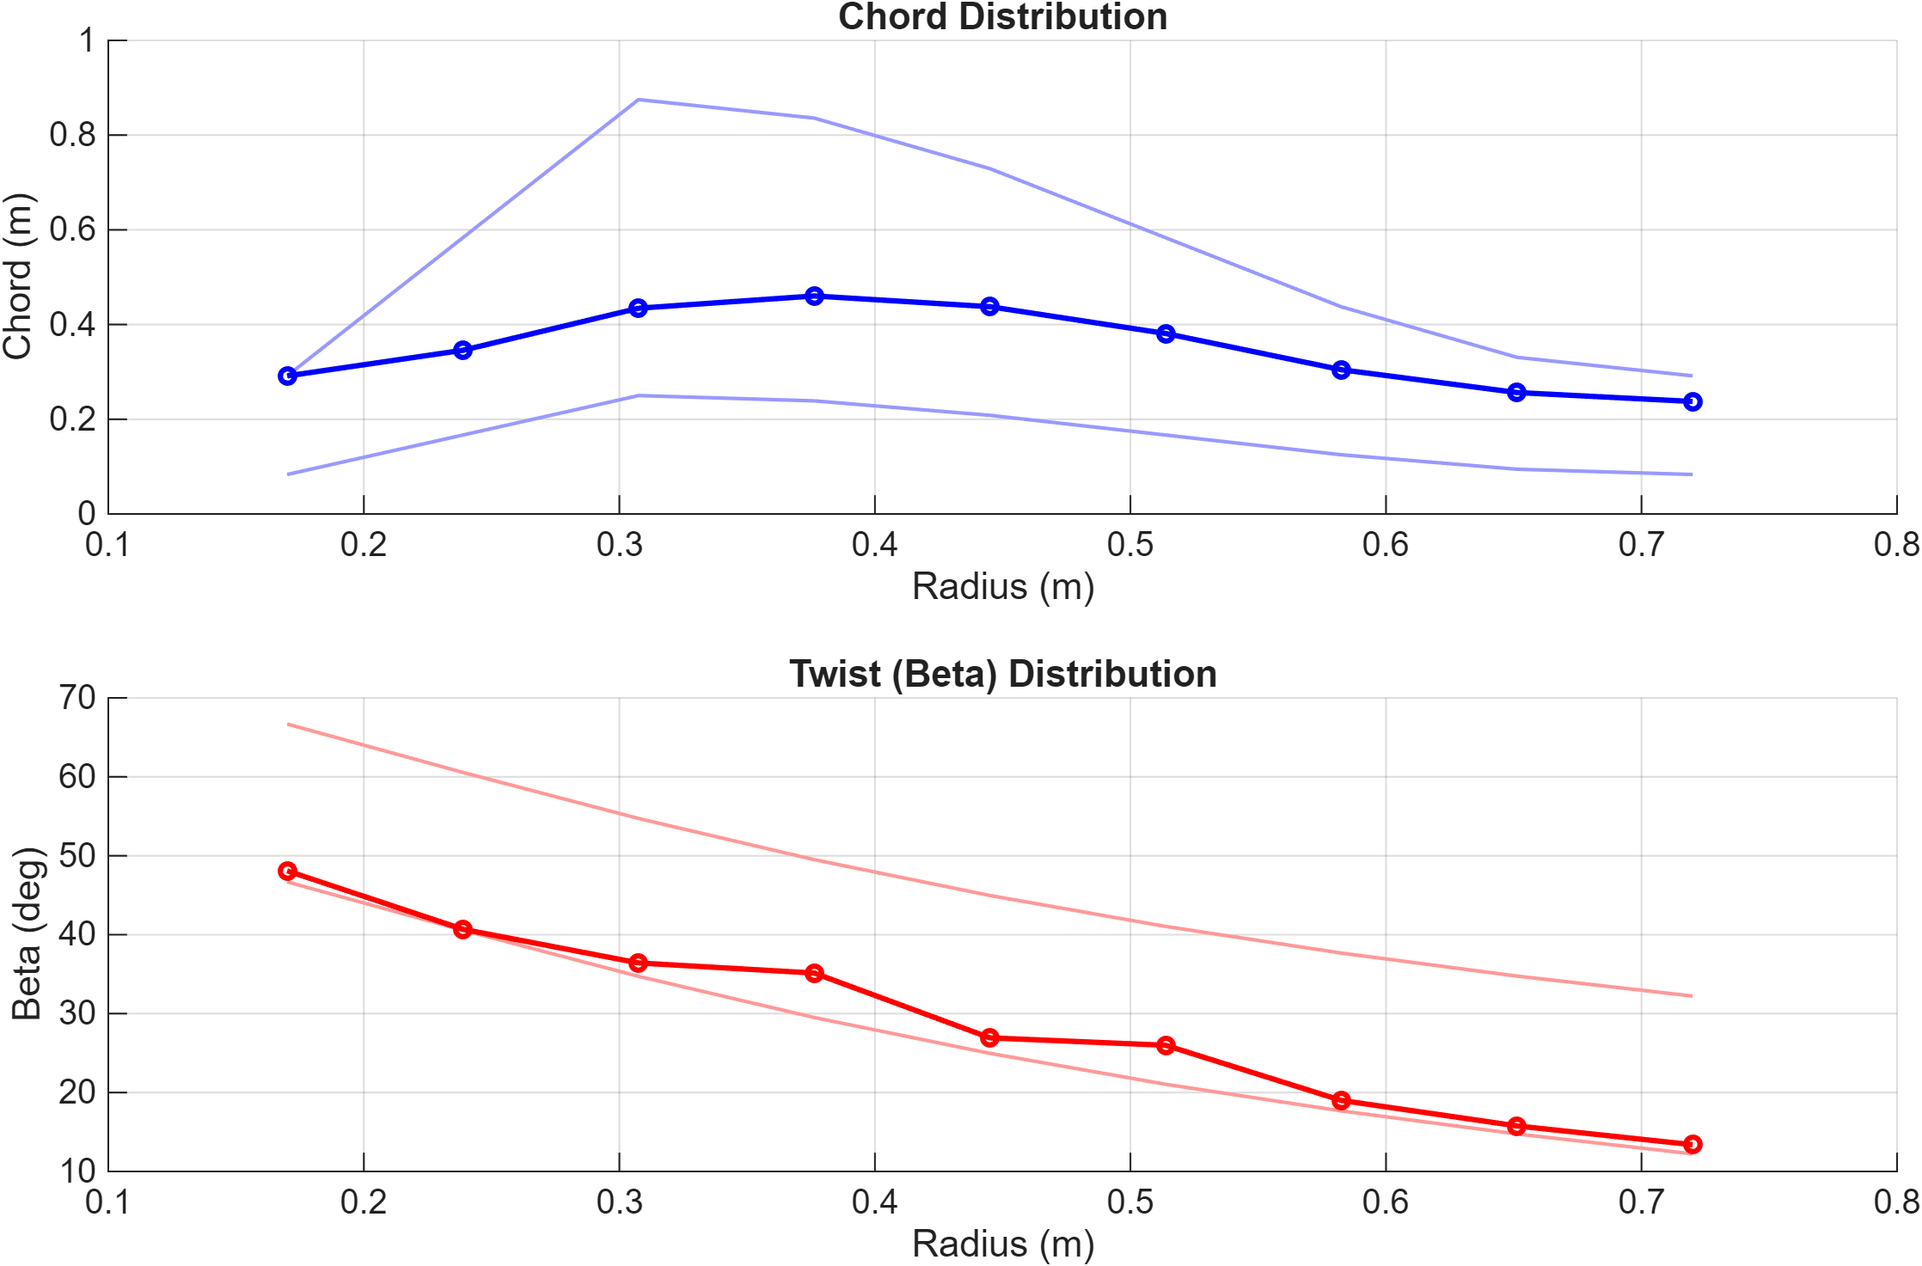
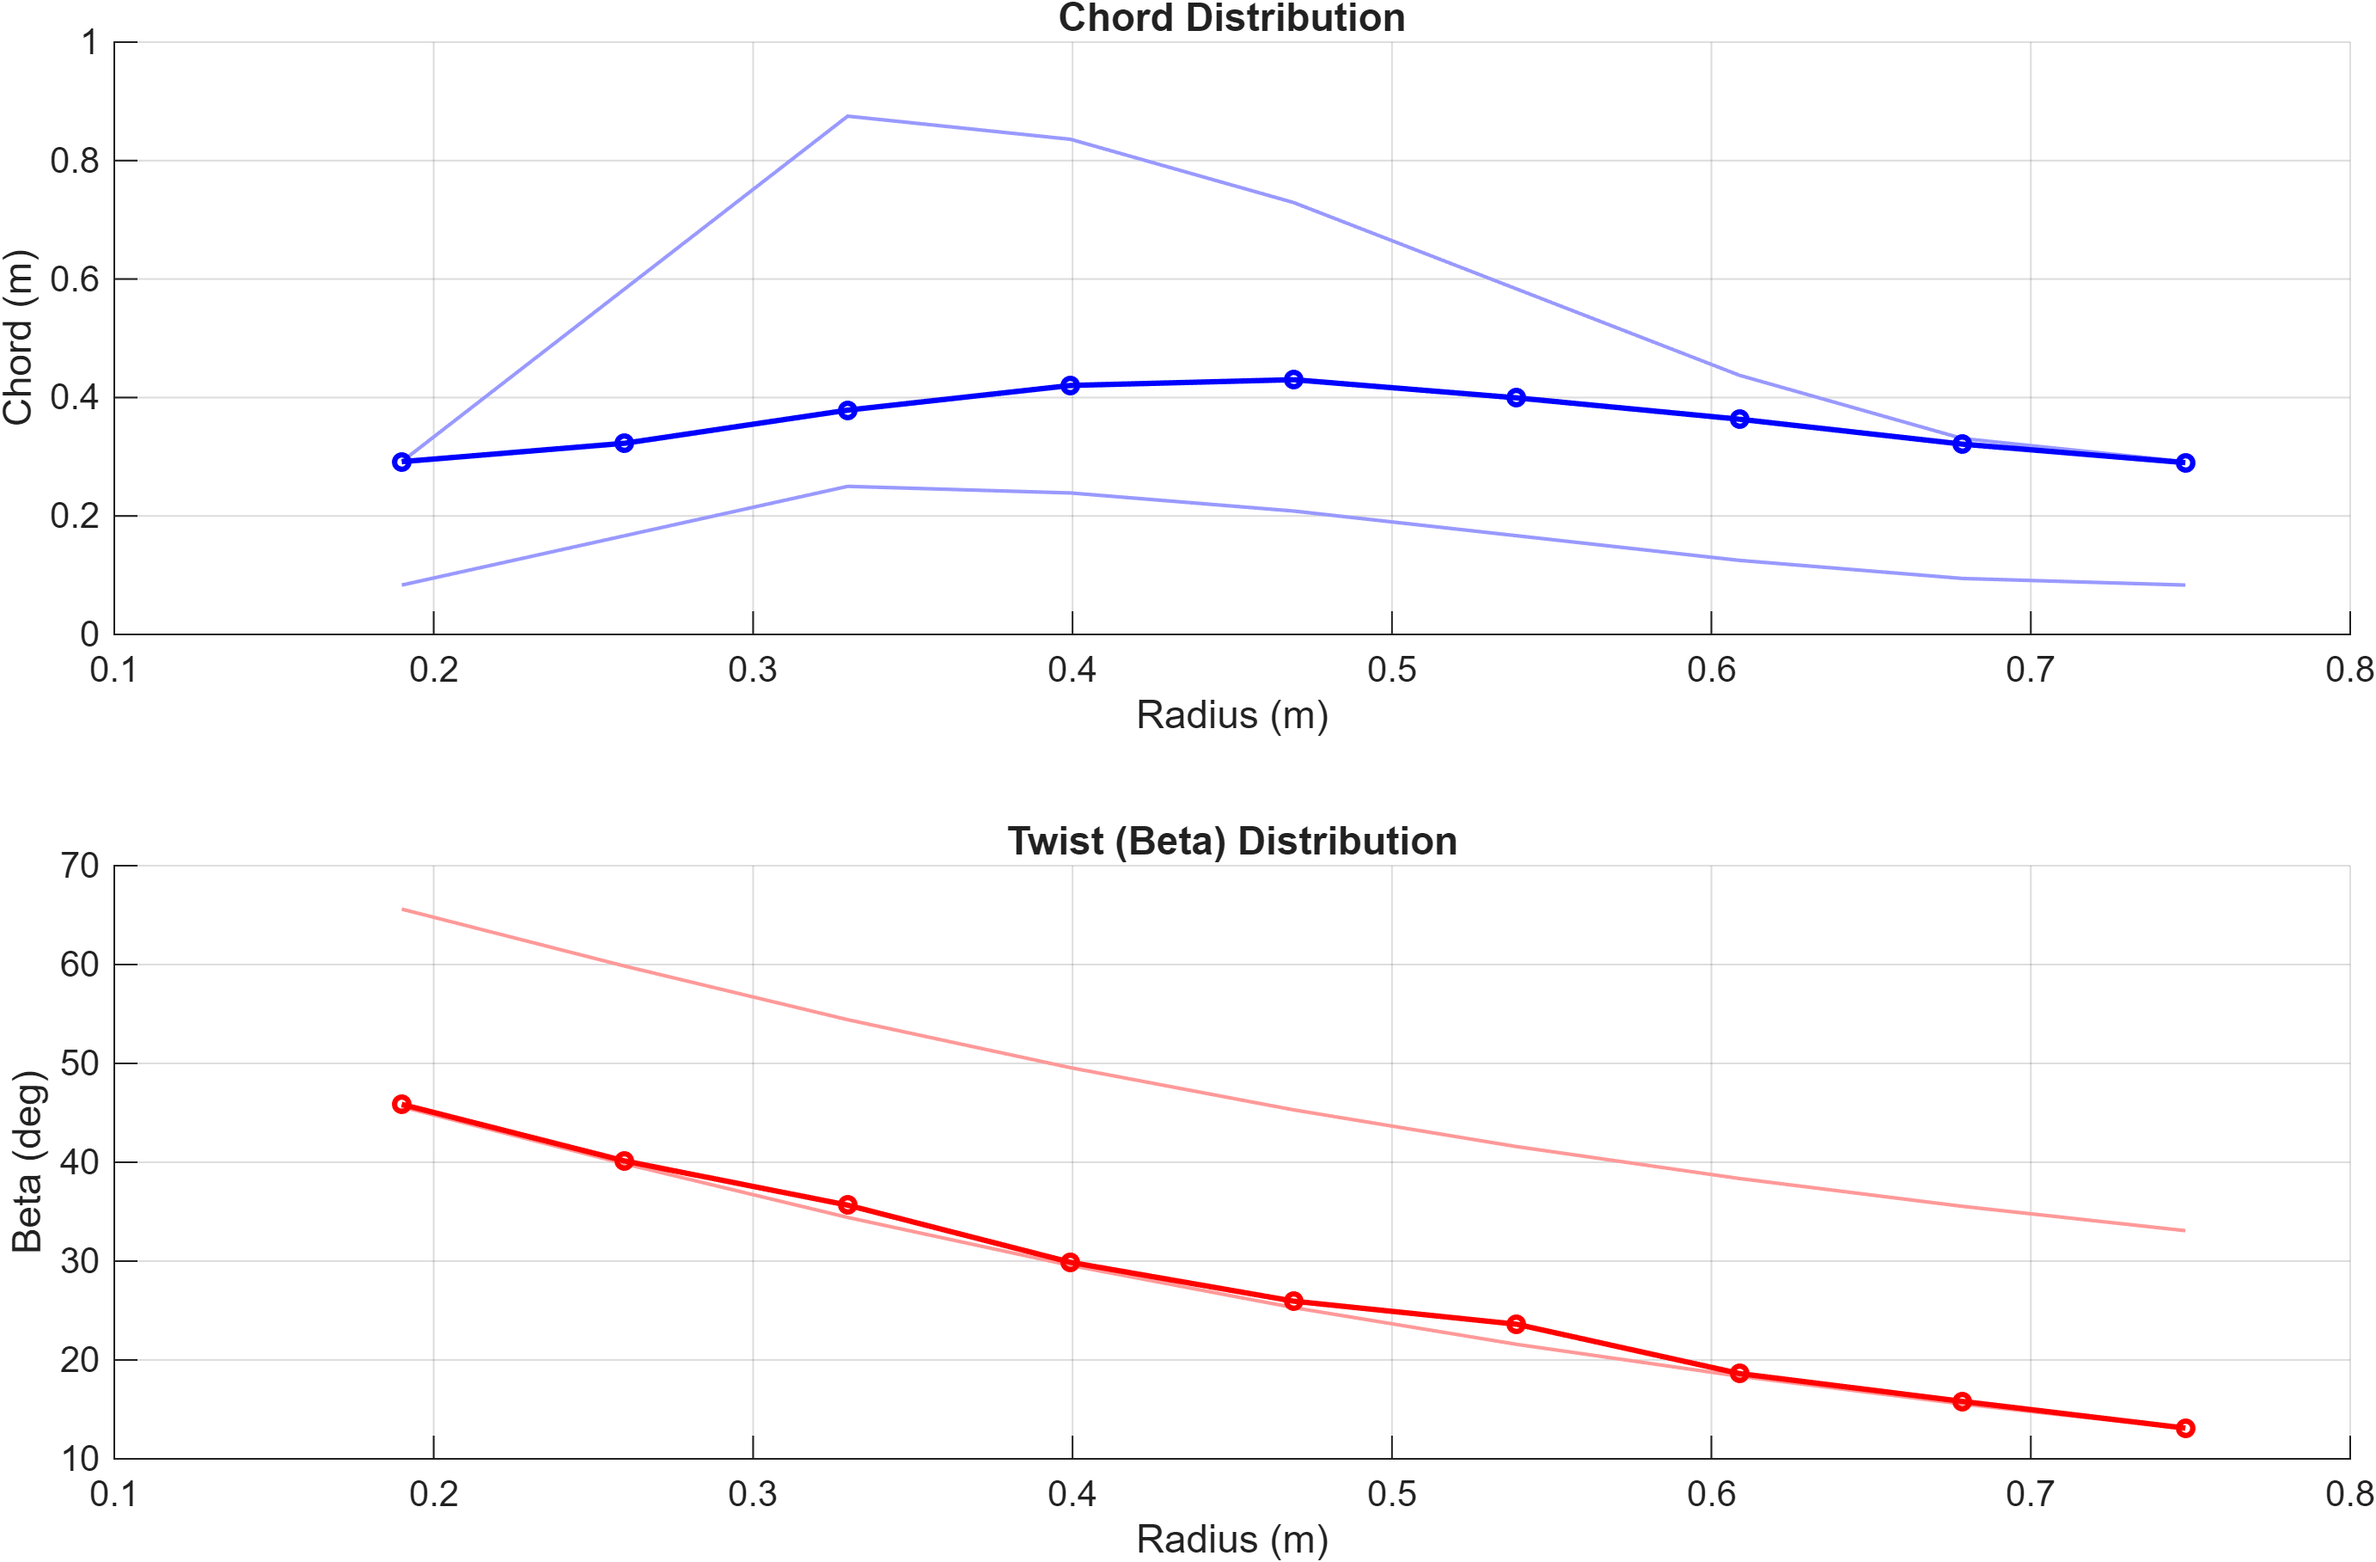
Optimise spar length

diff --git a/optimiseTurbineGivenShape.m b/optimiseTurbineGivenShape.m
@@ -32,7 +32,7 @@ Curve = @generator;
 rho = 1.29;
 eta = 0.6;
 nSections = num_sections;
-clearance = 0.17;
+clearance = 0.19;
 B = num_blades;
 
 % BEM Values
@@ -78,14 +78,20 @@ chord_ref = min(chord_ref, 0.5);
 
 beta_ref = bemOptDesign.beta;
 
+R_ref = 0.72;
+
 % Bounds around the reference design
 chord_lb = 0.5 .* chord_ref;       % lower bound on chord
 chord_ub = 1.75 .* chord_ref;       % upper bound on chord
 beta_lb  = beta_ref - (10*pi/180);
 beta_ub  = beta_ref + (10*pi/180);
 
-lb = [chord_lb, beta_lb];
-ub = [chord_ub, beta_ub];
+% Bounds for Spar Geometry
+R_lb = 0.50; % Any less is likely not going to be optimal
+R_ub = 0.75; % R <= 0.75 (To account for max radius = 0.8)
+
+lb = [chord_lb, beta_lb, R_lb];
+ub = [chord_ub, beta_ub, R_ub];
 
 function obj = objective(design)
     [obj, ~] = objectivePenalties(design, false, false);
@@ -95,7 +101,7 @@ function [obj, rpm] = objectivePenalties(design, skipPenalties, returnRPM)
     [obj, Vu, rpm] = turbineObj(design, fx, Vu, rho, eta, nSections, clearance, B, R, Curve, skipPenalties, returnRPM);
 end
 
-nvars = 2 * nSections;
+nvars = 2 * nSections + 1;
 
 % Initial guess (used for pop matrix)
 % x0 = [chord_ref, beta_ref];
@@ -111,7 +117,7 @@ maxStall = floor(maxGens / 10);
 %     initPop(ii,:) = lb + (ub - lb) .* rand(1, nvars);
 % end
 
-init_pop = repmat([chord_ref, beta_ref], 100, 1);
+init_pop = repmat([chord_ref, beta_ref, R_ref], 100, 1);
 init_pop = init_pop + randn(100, nvars) .* 0.02;
 init_pop = max(init_pop, lb);
 init_pop = min(init_pop, ub);
@@ -147,7 +153,8 @@ end
 % Prepare outputs
 x = xbest(:)';
 chord = x(1:nSections);
-beta  = x(nSections+1:end);
+beta  = x(nSections+1:end-1);
+R_fin     = x(end);
 
 % Rerun turbineObj to get true weighted Power
 [fbest, rpm] = objectivePenalties(x, true, true);
@@ -162,6 +169,7 @@ end
 result.best_design = x;
 result.chord = chord;
 result.beta = beta;
+result.R = R_fin;
 result.weighted_power = best_weighted_power;
 sol = calculateSolidity(chord, r, B);
 result.info = struct('nSections', nSections, 'B', B, ...
@@ -175,7 +183,7 @@ if ~exist(distFolder, 'dir')
 end
 
 % Radial stations (non-dimensional or just index-based)
-r = linspace(clearance, R, nSections);
+r = linspace(clearance, R_fin, nSections);
 beta_deg = beta * 180/pi;
 fig = figure('Visible', 'off');
 theme(fig, "light")

diff --git a/optimiseTurbine.m b/optimiseTurbine.m
@@ -12,7 +12,7 @@ clear all; clc;
 results = struct();
 
 % Values passed to GA
-scale = 10;
+scale = 50;
 popSize = floor(15 * scale);
 maxGens = floor(10 * scale);
 
@@ -93,7 +93,8 @@ airfoil_candidates = {
 
 % B_values = [3, 5, 7];
 B_values = [3];
-nSection_Values = [7, 8, 9, 10, 11, 12, 13, 14, 15];
+% nSection_Values = [7, 8, 9, 10, 11, 12, 13, 14, 15];
+nSection_Values = [9];
 
 % Fixed blade count for comparison
 % for nSections = nSection_Values
@@ -146,6 +147,7 @@ for B = B_values
         fprintf(fid, '  weighted_power: %.6f\n', res.weighted_power);
         fprintf(fid, '  chord: [%s]\n', num2str(res.chord, ' %.4f'));
         fprintf(fid, '  beta:  [%s]\n', num2str(res.beta, ' %.4f'));
+        fprintf(fid, '  R:     %s\n', num2str(res.R, ' %.4f'));
     
         fprintf(fid, '  info:\n');
         fprintf(fid, '    RPM:       [%s]\n', num2str(res.info.rpm, ' %.4f'));
@@ -182,6 +184,7 @@ for B = B_values
             fprintf(fid, '  nSections: %s\n', num2str(res.info.nSections));
             fprintf(fid, '  chord: [%s]\n', num2str(res.chord, ' %.4f'));
             fprintf(fid, '  beta:  [%s]\n', num2str(res.beta, ' %.4f'));
+            fprintf(fid, '  R:     %s\n', num2str(res.R, ' %.4f'));
             fprintf(fid, '\n');
         end
     

diff --git a/turbineObj.m b/turbineObj.m
@@ -8,7 +8,8 @@ function [obj, Vu, rpm_] = turbineObj(design, fx, Vu, rho, eta, nSections, clear
 %   Returns the negative weighted power (for use with minimisers).
 
 chord = design(1:nSections);
-beta  = design(nSections+1:end);
+beta  = design(nSections+1:end-1);
+R     = design(end);
 
 wind_speeds = [4.0, 5.0, 6.0, 7.0];
 weightings  = [0.25, 0.45, 0.20, 0.10];
